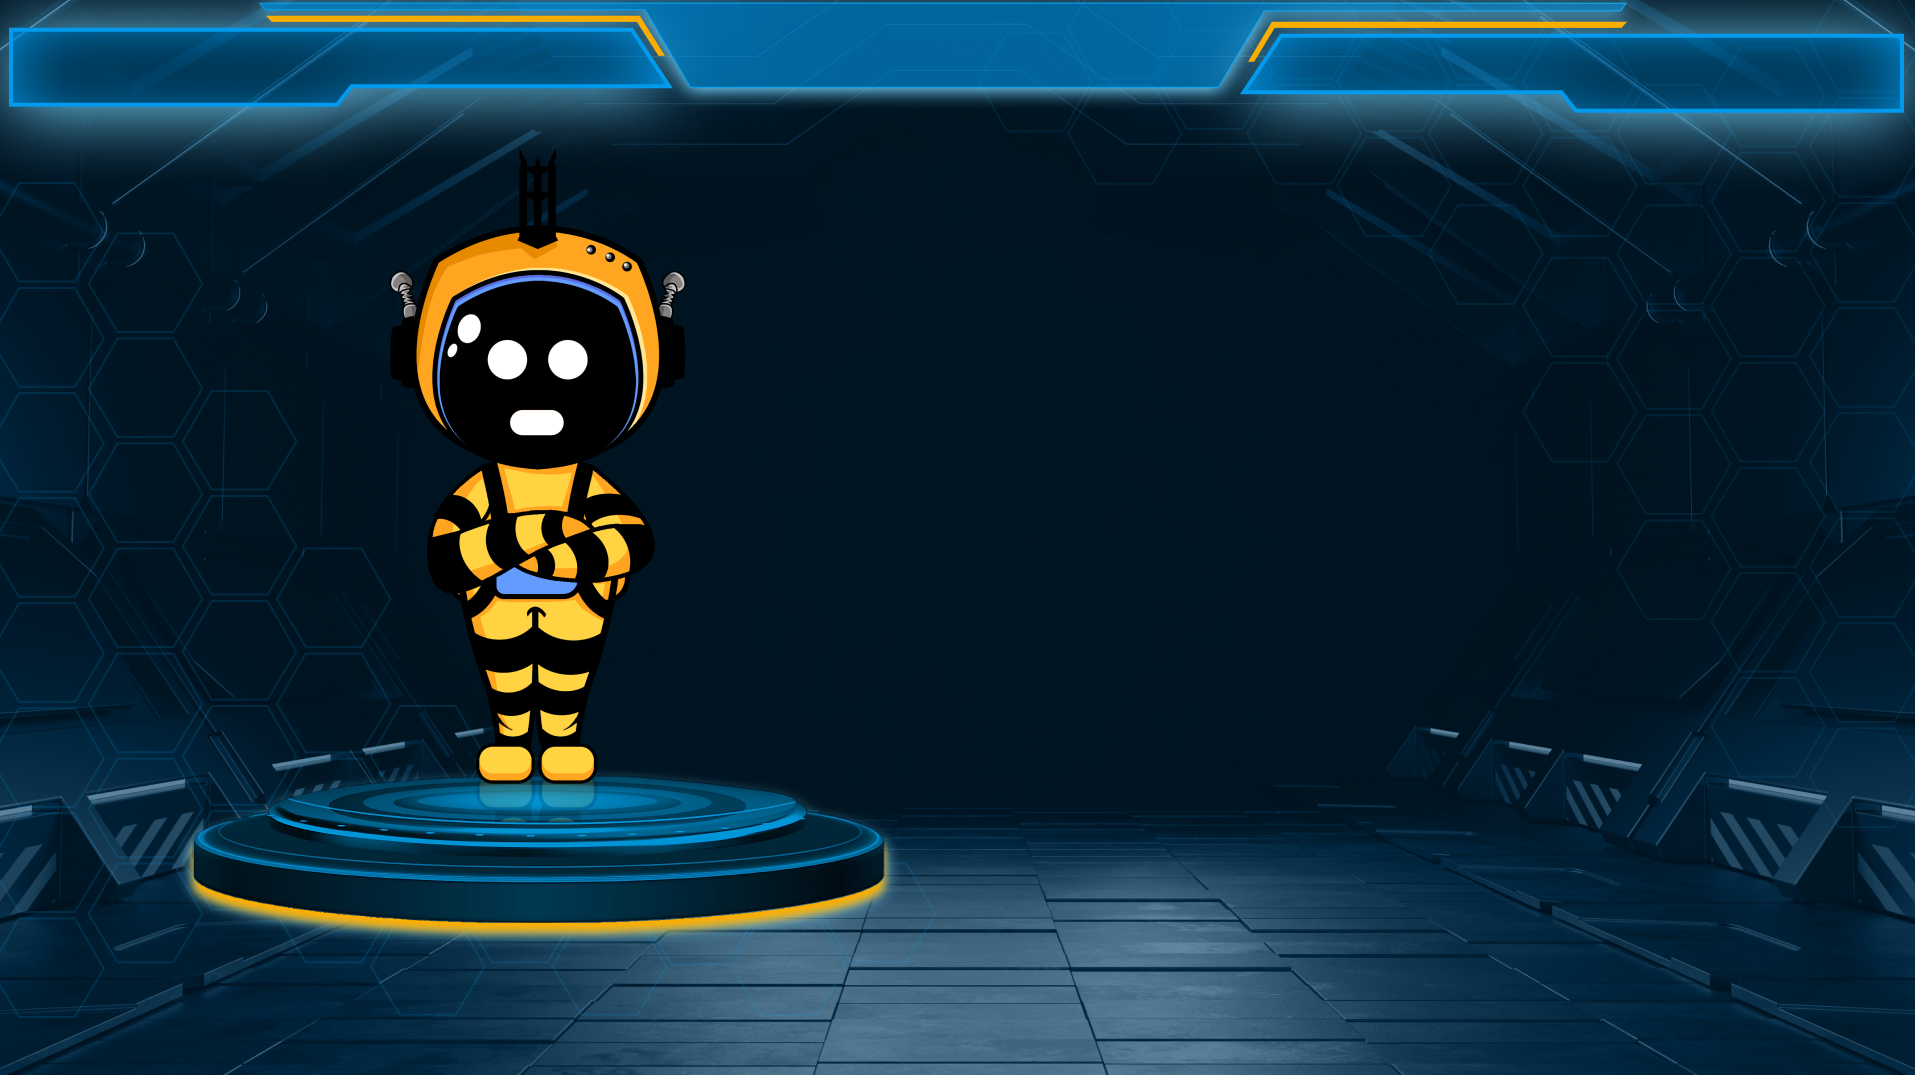
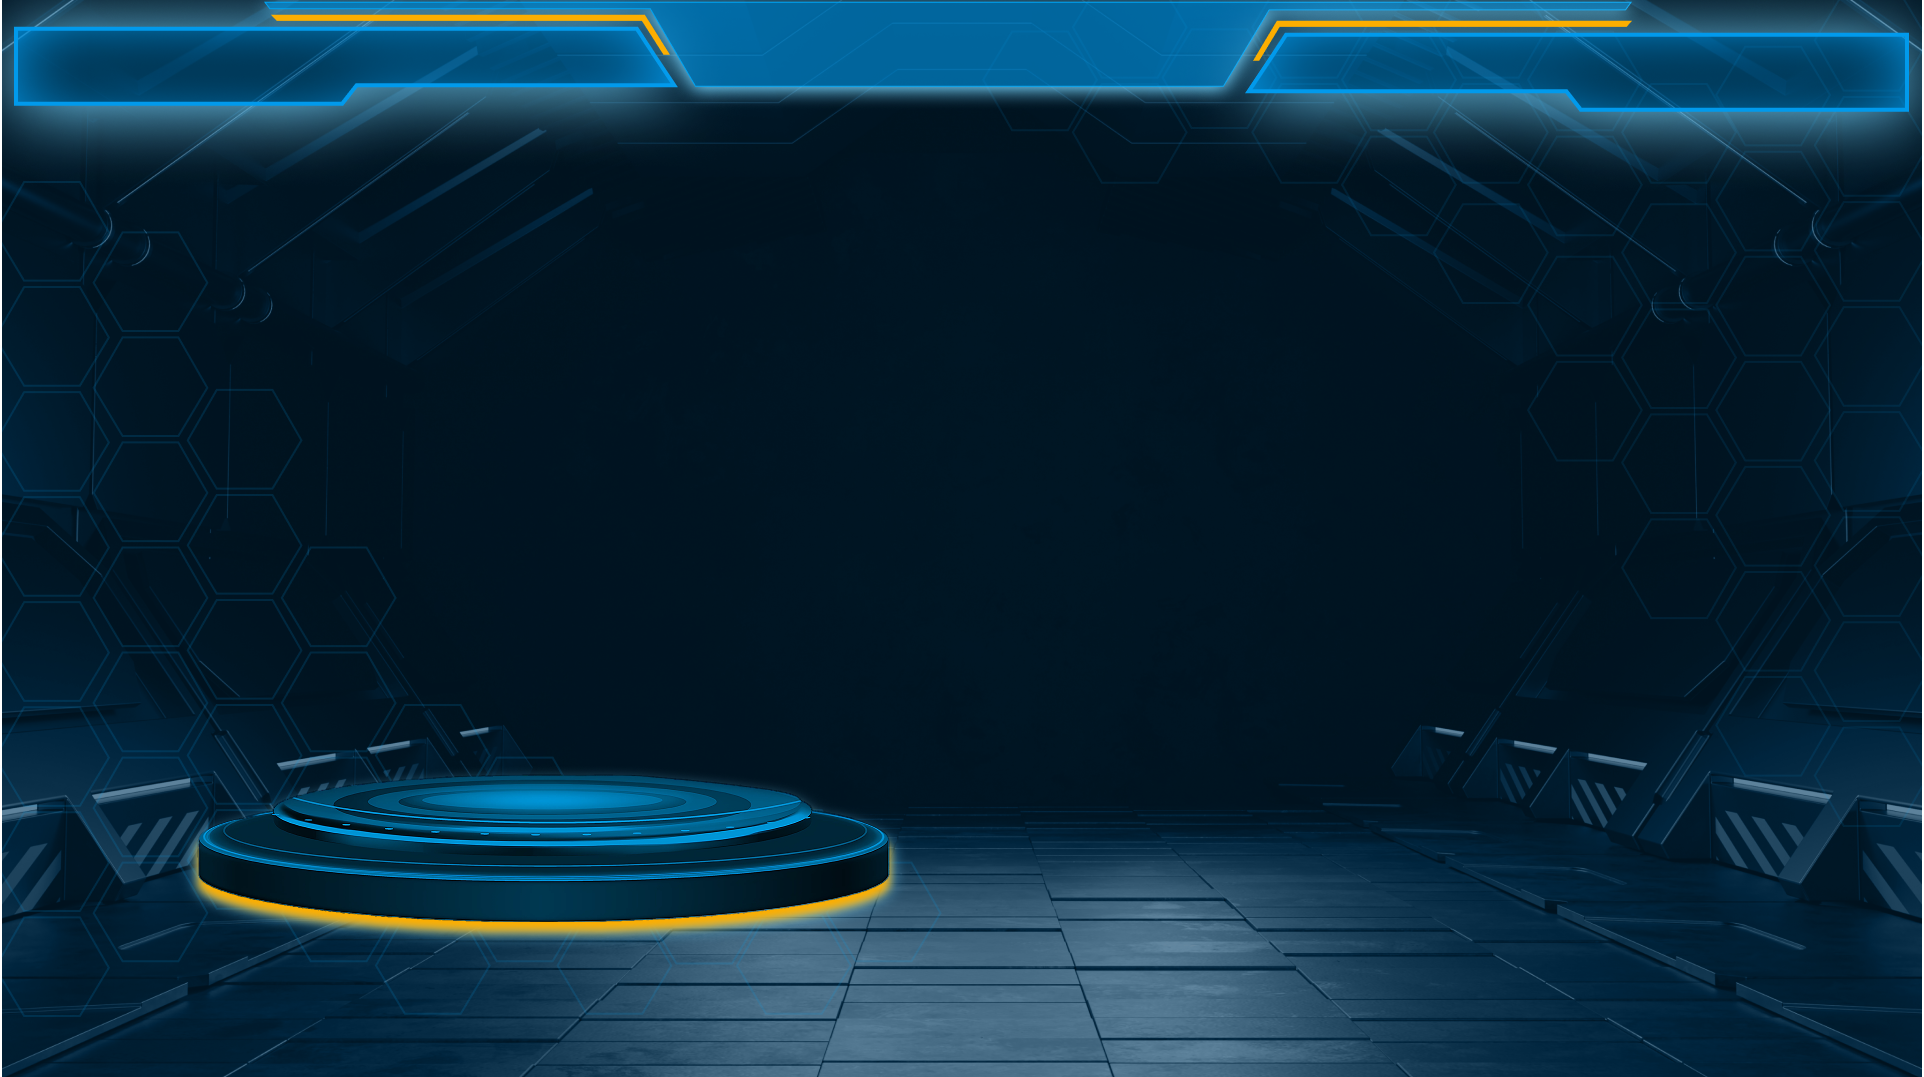
update

diff --git a/selectmode/styles.css b/selectmode/styles.css
@@ -172,6 +172,43 @@ body {
   }
 }
 
+/* Joybee Character Styling */
+.joybee-container {
+  position: absolute;
+  top: 50%;
+  left: 20.5%; /* Align to the left */
+  transform: translateY(-50%); /* Center vertically */
+  
+}
+
+.joybee-character {
+  width: 300px; /* Adjust size */
+  height: auto;
+ 
+}
+
+
+/* Responsive adjustments */
+@media (max-width: 1024px) {
+  .joybee-character {
+    width: 150px; /* Adjust size for tablets */
+  }
+}
+
+@media (max-width: 768px) {
+  .joybee-character {
+    width: 100px; /* Adjust size for smaller screens */
+  }
+}
+
+@media (max-width: 480px) {
+  .joybee-character {
+    width: 80px; /* Adjust size for mobile */
+    left: 3%; /* Slightly adjust position */
+  }
+}
+
+
 /* FOR ALL POPUP MODAL */
 /* Solo Mode Modal Styles */
 .solo-modal {

diff --git a/components/styles.css b/components/styles.css
@@ -426,6 +426,36 @@ body {
   }
 }
 
+.loading-spinner {
+  position: fixed;
+  top: 0;
+  left: 0;
+  width: 100%;
+  height: 100%;
+  background-color: rgba(0, 0, 0, 0.5);
+  display: flex;
+  justify-content: center;
+  align-items: center;
+  z-index: 9999;
+  padding-top: 16%;
+}
+
+.logout-spinner{
+  border: 8px solid #f3f3f3;
+  border-top: 8px solid #3498db;
+  border-radius: 50%;
+  width: 60px;
+  height: 60px;
+  animation: spin 2s linear infinite;
+  margin: 0 auto;
+}
+
+@keyframes spin {
+  0% { transform: rotate(0deg); }
+  100% { transform: rotate(360deg); }
+}
+
+
 /* Profile Modal Styling */
 .profile-modal {
   display: none;

diff --git a/selectmode/mode.php b/selectmode/mode.php
@@ -16,6 +16,11 @@
 
               <?php include '../components/navbar.php'; ?>
               
+               <!-- Joybee Character -->
+              <div class="joybee-container">
+                <img src="../img/joybee.png" alt="Joybee" class="joybee-character">
+              </div>
+
               <!-- Right-aligned images -->
               <div class="select-mode-images">
                 <img src="../img/mdSolo.png" alt="Solo Mode" class="solo-mode" id="solomodeImage" class="locked">
@@ -34,15 +39,57 @@
                 </div>
               </div>
 
+              <!-- Loading Spinner -->
+              <!-- <div id="loading" class="d-flex justify-content-center align-items-center position-fixed top-0 start-0 w-100 h-100 bg-white" style="display: none; z-index: 1050;">
+                  <div class="spinner-border text-primary" role="status">
+                    <span class="visually-hidden">Loading...</span>
+                  </div>
+                </div> -->
+
+
               <!-- ALL MODAL MODES (SOLO) (PVP) (PRACTICE) (CUSTOM)-->
+                
+
                 <!-- Solo Mode Modal -->
                 <div id="soloModeModal" class="solo-modal">
                   <div class="solo-modal-content">
-                    <span class="solo-close" id="soloCloseModal"><img src="../img/btnback.png" alt="Close Button"></span>
-                    <button id="TakeLesson" class="solo-start-btn"><img src="../img/btntklesson.png" alt="Close Button" onclick="window.location.href='../lesson/lesson.php'"></button>
-                    <button id="StartGame" class="solo-start-btn"><img src="../img/btnstart.png" alt="Close Button" onclick="window.location.href='../level1-15/level1-15.php'"></button>
+                    <span class="solo-close" id="soloCloseModal">
+                      <img src="../img/btnback.png" alt="Close Button">
+                    </span>
+                    
+                    <button id="TakeLesson" class="solo-start-btn">
+                      <img src="../img/btntklesson.png" alt="Take Lesson">
+                    </button>
+
+                    <button id="StartGame" class="solo-start-btn">
+                      <img src="../img/btnstart.png" alt="Start Game">
+                    </button>
                   </div>
                 </div>
+
+                <!-- JavaScript to Control Loading and Redirect -->
+                <script>
+                  function showLoadingAndRedirect(url) {
+                    // Ipakita ang loading spinner
+                    document.getElementById("loading").style.display = "flex";
+
+                    // Maghintay ng 2 segundo bago lumipat sa bagong pahina
+                    setTimeout(function() {
+                      window.location.href = url;
+                    }, 2000);
+                  }
+
+                  // Event listener para sa Take Lesson button
+                  document.getElementById("TakeLesson").addEventListener("click", function() {
+                    showLoadingAndRedirect('../lesson/lesson.php');
+                  });
+
+                  // Event listener para sa Start Game button
+                  document.getElementById("StartGame").addEventListener("click", function() {
+                    showLoadingAndRedirect('../level1-15/level1-15.php');
+                  });
+                </script>
+
 
                 <!-- JavaScript for Solo Mode Modal -->
                 <script>
@@ -135,41 +182,6 @@
                   });
                 </script>
 
-                  <!---------------------------------- Custom Mode Modal --------------------------->
-                <div id="customModeModal" class="custom-modal">
-                  <div class="custom-modal-content">
-                    <span class="custom-close" id="customCloseModal">&times;</span>
-                    <h2>Custom Mode</h2>
-                    <p>Welcome to Custom Mode! Personalize your game settings and start your challenge.</p>
-                    <button id="startCustomBtn" class="custom-start-btn">Start Game</button>
-                  </div>
-                </div>
-
-                <!-- JavaScript for Custom Mode Modal -->
-                <script>
-                  const customModeImage = document.getElementById("customModeImage");
-                  const customModeModal = document.getElementById("customModeModal");
-                  const customCloseModal = document.getElementById("customCloseModal");
-
-                  // Open Custom Mode Modal when clicking on the image
-                  customModeImage.addEventListener("click", () => {
-                    customModeModal.style.display = "block";
-                  });
-
-                  // Close Custom Mode Modal when clicking on the close button
-                  customCloseModal.addEventListener("click", () => {
-                    customModeModal.style.display = "none";
-                  });
-
-                  // Close Custom Mode Modal when clicking outside the modal
-                  window.addEventListener("click", (event) => {
-                    if (event.target === customModeModal) {
-                      customModeModal.style.display = "none";
-                    }
-                  });
-
-                   </script>
-
                     <!-- User's Lobby Modal -->
                     <div id="usersLobbyModal" class="users-lobby-modal">
                       <div class="users-lobby-modal-content">
@@ -245,51 +257,51 @@
 
                     <!-- ---------------------------FOR CHOOSING/Joining LOBBY MODAL------------------------- -->
                       <!-- User's Lobby Modal -->
-<div id="usersJoinModal" class="users-join-modal">
-  <div class="users-join-modal-content">
-    <span class="users-back-close" id="usersJoinCloseModal">
-      <img src="../img/btnback.png" alt="Close Button">
-    </span>
-    <h2 class="users-Join-title">Choose Lobby</h2>
+                  <div id="usersJoinModal" class="users-join-modal">
+                    <div class="users-join-modal-content">
+                      <span class="users-back-close" id="usersJoinCloseModal">
+                        <img src="../img/btnback.png" alt="Close Button">
+                      </span>
+                      <h2 class="users-Join-title">Choose Lobby</h2>
 
-    <!-- User's List Table -->
-    <table class="users-join-table">
-      <thead>
-        <tr>
-          <th>Lobby ID</th>
-          <th>Lobby Master</th>
-        </tr>
-      </thead>
-      <tbody>
-        <tr class="join-lobby-row">
-          <td class="join-ID">12345</td>
-          <td class="join-user-name">John Doe</td>
-        </tr>
-        <tr class="join-lobby-row">
-          <td class="join-ID">12346</td>
-          <td class="join-user-name">Jane Smith</td>
-        </tr>
-        <tr class="join-lobby-row">
-          <td class="join-ID">12347</td>
-          <td class="join-user-name">Alex Johnson</td>
-        </tr>
-        <tr class="join-lobby-row">
-          <td class="join-ID">12348</td>
-          <td class="join-user-name">Chris Lee</td>
-        </tr>
-        <tr class="join-lobby-row">
-          <td class="join-ID">12349</td>
-          <td class="join-user-name">Pat Morgan</td>
-        </tr>
-      </tbody>
-    </table>
-    
-    <!-- Join Button (Initially Hidden) -->
-    <span class="users-join-btn" id="usersJoinBtn" style="display:none;">
-      <img src="../img/btnjoin.png" alt="Join Button">
-    </span>
-  </div>
-</div>
+                      <!-- User's List Table -->
+                      <table class="users-join-table">
+                        <thead>
+                          <tr>
+                            <th>Lobby ID</th>
+                            <th>Lobby Master</th>
+                          </tr>
+                        </thead>
+                        <tbody>
+                          <tr class="join-lobby-row">
+                            <td class="join-ID">12345</td>
+                            <td class="join-user-name">John Doe</td>
+                          </tr>
+                          <tr class="join-lobby-row">
+                            <td class="join-ID">12346</td>
+                            <td class="join-user-name">Jane Smith</td>
+                          </tr>
+                          <tr class="join-lobby-row">
+                            <td class="join-ID">12347</td>
+                            <td class="join-user-name">Alex Johnson</td>
+                          </tr>
+                          <tr class="join-lobby-row">
+                            <td class="join-ID">12348</td>
+                            <td class="join-user-name">Chris Lee</td>
+                          </tr>
+                          <tr class="join-lobby-row">
+                            <td class="join-ID">12349</td>
+                            <td class="join-user-name">Pat Morgan</td>
+                          </tr>
+                        </tbody>
+                      </table>
+                      
+                      <!-- Join Button (Initially Hidden) -->
+                      <span class="users-join-btn" id="usersJoinBtn" style="display:none;">
+                        <img src="../img/btnjoin.png" alt="Join Button">
+                      </span>
+                    </div>
+                  </div>
 
 
                   <script>
@@ -353,8 +365,6 @@
                         alert(`You have joined the lobby with ID: ${lobbyId}, hosted by ${lobbyMaster}`);
                       }
                     });
-
-
                     </script>
 </body>
 </html>

diff --git a/components/navbar.php b/components/navbar.php
@@ -310,16 +310,21 @@
     </script>
 
             <!--------------------------------- Modal for logout confirmation ------------------------------------->
-        <div id="logoutModal" class="logout-modal">
-          <div class="logout-modal-content">
-            <span class="logout-close" id="logout-closeModal"></span>
-            <h2>Are you sure you want to logout?</h2>
-            <div class="logout-modal-footer">
-              <button class="cancel-btn" id="cancelBtn">Cancel</button>
-              <button class="logout-btn" id="logoutBtn" onclick="window.location.href='../index.php';">Logout</button>
+            <div id="logoutModal" class="logout-modal">
+                <div class="logout-modal-content">
+                    <span class="logout-close" id="logout-closeModal"></span>
+                    <h2>Are you sure you want to logout?</h2>
+                    <div class="logout-modal-footer">
+                        <button class="cancel-btn" id="cancelBtn">Cancel</button>
+                        <button class="logout-btn" id="logoutBtn">Logout</button>
+                    </div>
+                    <!-- Loading Spinner -->
+                    <div id="loadingSpinner" class="loading-spinner" style="display:none;">
+                        <div class="logout-spinner"></div>
+                    </div>
+                </div>
             </div>
-          </div>
-        </div>
+
 
         <!-- ------------------------------SCRIPT------------------------------------------ -->
         <!-- tooltip -->
@@ -360,8 +365,9 @@
             const closeModal = document.getElementById("logout-closeModal");
             const cancelBtn = document.getElementById("cancelBtn");
             const logoutBtn = document.getElementById("logoutBtn");
+            const loadingSpinner = document.getElementById("loadingSpinner");
 
-            // --------------------------------------Profile modal----------------------------------------------------------------------
+            // --------------------------------------Profile modal--------------
             const profileModal = document.getElementById("profileModal");
             const profileAvatar = document.getElementById("profile-avatar");
             const profileCloseModal = document.getElementById("profile-closeModal");
@@ -435,8 +441,14 @@
 
             // When the user clicks the logout button, trigger logout functionality
             logoutBtn.addEventListener("click", function() {
-              // Implement your logout functionality here, e.g.:
-              window.location.href = '../index.php'; // Redirect to logout page
+              // Show the loading spinner
+              loadingSpinner.style.display = "block";
+              
+              // Simulate some delay for the logout process (e.g., server request)
+              setTimeout(function() {
+                // Redirect to the index.php after the delay
+                window.location.href = '../index.php';
+              }, 2000); // Adjust delay as needed (e.g., 2 seconds)
             });
 
             // Close the modal if the user clicks outside of it

diff --git a/level1-15/level1-15.php b/level1-15/level1-15.php
@@ -16,7 +16,7 @@
 
   <!-- Back Button -->
   <div class="btn-back">
-    <img src="../img/btnback.png" alt="Back Button" class="btn-back-image" onclick="window.location.href='../selectmode/index.php';">
+    <img src="../img/btnback.png" alt="Back Button" class="btn-back-image" onclick="window.location.href='../selectmode/mode.php';">
   </div>
 
   <!-- Prev Level Button -->

diff --git a/level16-25/level16-25.php b/level16-25/level16-25.php
@@ -16,7 +16,7 @@
 
   <!-- Back Button -->
   <div class="btn-back">
-    <img src="../img/btnback.png" alt="Back Button" class="btn-back-image" onclick="window.location.href='../selectmode/index.php';">
+    <img src="../img/btnback.png" alt="Back Button" class="btn-back-image" onclick="window.location.href='../selectmode/mode.php';">
   </div>
 
   <!-- Prev Level Button -->
